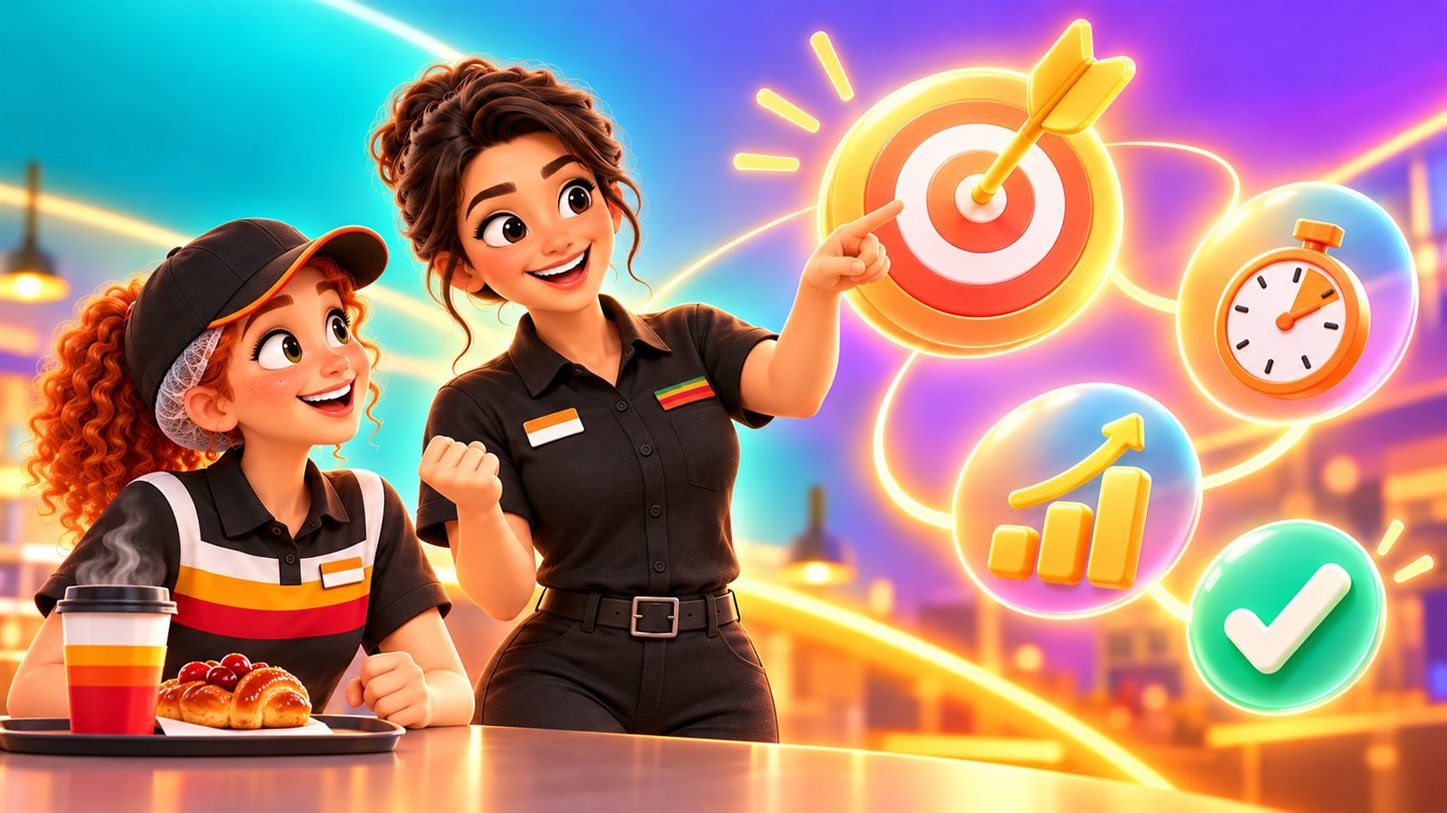
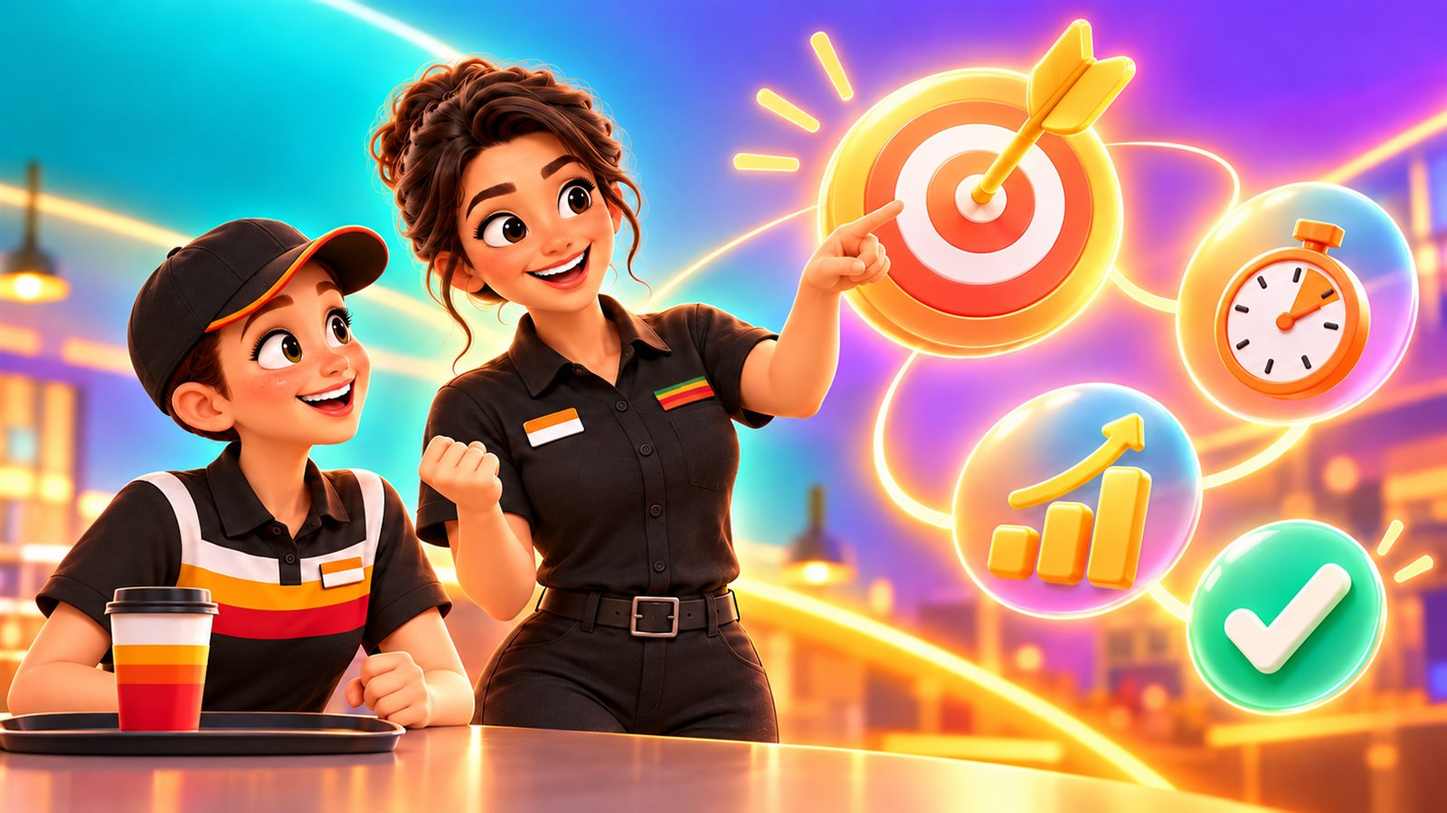
Refine course visuals and add reason carousel

diff --git a/index.html b/index.html
@@ -1,4 +1,4 @@
-<!doctype html>
+<!doctype html>
 <html lang="ru" data-audience="ms" data-direction="restoran" data-ku-course="daily_goals_course_progress_v12">
 <head>
   <meta charset="utf-8">
@@ -7,7 +7,7 @@
   <meta name="description" content="Интерактивный курс о постановке целей и управлении их достижением в течение дня.">
   <title>Как управлять достижением целей на день</title>
   <link rel="stylesheet" href="css/kuds.css?v=5">
-  <link rel="stylesheet" href="style.css?v=43">
+  <link rel="stylesheet" href="style.css?v=44">
 </head>
 <body>
   <nav id="top-nav" aria-label="Навигация по курсу">
@@ -29,8 +29,8 @@
           <p>От общей цели ресторана — к понятным действиям каждого сотрудника.</p>
           <button class="hero-entry ku-btn primary l" type="button" onclick="navigateTo('intro')"><span>Начать</span><i class="ku-ico arrow" aria-hidden="true">→</i></button>
         </div>
-        <figure class="ku-img course-hero-art" data-ku-img="images/hero-shift-leader" data-ku-alt="Менеджер ресторана начинает смену вместе с командой" style="aspect-ratio:4/5">
-          <figcaption class="ku-img__ph"><b>3D-сцена: менеджер начинает смену вместе с командой</b><code>images/hero-shift-leader · 4:5</code></figcaption>
+        <figure class="ku-img course-hero-art" data-ku-img="images/hero-shift-leader" data-ku-alt="Менеджер ресторана начинает смену вместе с командой" style="aspect-ratio:16/9">
+          <figcaption class="ku-img__ph"><b>3D-сцена: менеджер начинает смену вместе с командой</b><code>images/hero-shift-leader · 16:9</code></figcaption>
         </figure>
       </div>
 
@@ -224,9 +224,6 @@
         </div>
       </header>
       <div class="content-wrap lesson-body">
-        <figure class="ku-img fade-in course-scene" data-ku-img="images/smart-goal-coaching" data-ku-alt="Менеджер формулирует сотруднику прилавка конкретную цель по SMART" style="aspect-ratio:16/9">
-          <figcaption class="ku-img__ph"><b>3D-сцена: менеджер ставит сотруднику понятную SMART-цель</b><code>images/smart-goal-coaching · 16:9</code></figcaption>
-        </figure>
         <div class="section-title fade-in"><h2>Как конкретизировать цель на смену</h2></div>
         <div class="smart-intro fade-in"><p>Цели для команды и каждого сотрудника нужно ставить по принципу SMART. Нажми на букву, чтобы увидеть, что именно она проверяет.</p></div>
         <div class="smart-grid fade-in">
@@ -239,12 +236,13 @@
         <div class="smart-detail fade-in" id="smart-detail" aria-live="polite">
           <span>Выбери букву SMART</span><p>Нажми на любую карточку выше — здесь появится объяснение и пример.</p>
         </div>
-        <div class="smart-breakdown fade-in" id="smart-breakdown">
-          <p class="eyebrow">Собери воедино SMART-цель для кассира</p>
-          <p class="smart-annotated-goal">«<span class="smart-mark" data-smart="T">С 9:00 до 11:00</span> продай <span class="smart-mark" data-smart="M">15</span> <span class="smart-mark" data-smart="S">пирожков с вишней</span> — <span class="smart-mark" data-smart="A">на 5 больше твоего обычного результата</span>. Предлагай их как дополнительную продажу к горячему напитку: это поможет <span class="smart-mark" data-smart="R">увеличить средний чек ресторана</span>».</p>
-          <div class="smart-annotated-legend"><span><b>S</b>что продаём</span><span><b>M</b>сколько</span><span><b>A</b>почему достижимо</span><span><b>R</b>зачем ресторану</span><span><b>T</b>к какому времени</span></div>
+        <div class="smart-breakdown fade-in" id="smart-breakdown" hidden>
+          <p class="smart-complete-goal">«С 9:00 до 11:00 продай 15 пирожков с вишней — на 5 больше твоего обычного результата. Предлагай их как дополнительную продажу к горячему напитку: это поможет увеличить средний чек ресторана».</p>
         </div>
 
+        <figure class="ku-img fade-in course-scene" data-ku-img="images/smart-goal-coaching" data-ku-alt="Менеджер формулирует сотруднику прилавка конкретную цель по SMART" style="aspect-ratio:16/9">
+          <figcaption class="ku-img__ph"><b>3D-сцена: менеджер ставит сотруднику понятную SMART-цель</b><code>images/smart-goal-coaching · 16:9</code></figcaption>
+        </figure>
         <div class="quiz-card fade-in">
           <div class="quiz-top"><span>Практика</span><b>02</b></div>
           <h2>Соотнеси части цели с критериями SMART</h2>
@@ -335,11 +333,14 @@
 
         <div class="section-title fade-in"><h2>Что делать, если цели не достигаются?</h2></div>
         <div class="body-copy fade-in"><p>Если через 1–2 часа видно отставание, разберись в причинах.</p></div>
-        <div class="reason-grid fade-in">
-          <article class="reason-card"><button type="button" onclick="toggleReason(this)"><span class="reason-icon">?</span><span><b>Сотрудник не понимает задачу.</b><small>Нажми, чтобы увидеть решение</small></span><i>＋</i></button><div class="reason-body"><p><strong>Признак:</strong> пересказывает цель неверно.</p><p><strong>Решение:</strong> объясни цель ещё раз и попроси повторить.</p></div></article>
-          <article class="reason-card"><button type="button" onclick="toggleReason(this)"><span class="reason-icon">↗</span><span><b>Сотрудник понимает, но не получается выполнить.</b><small>Нажми, чтобы увидеть решение</small></span><i>＋</i></button><div class="reason-body"><p>Спроси, <strong>в чём сложность.</strong> Возможно, нужен другой инструмент (например, использовать треугольник продаж, а не один скрипт).</p><p><strong>Решение:</strong> предложи новый план, убери помехи (соус стоит далеко, скрипт сложный и т.п.).</p></div></article>
-          <article class="reason-card"><button type="button" onclick="toggleReason(this)"><span class="reason-icon">◷</span><span><b>Сотрудник устал.</b><small>Нажми, чтобы увидеть решение</small></span><i>＋</i></button><div class="reason-body"><p>Спроси, <strong>как он себя чувствует.</strong></p><p><strong>Решение:</strong> дай отдохнуть до пика, скорректируй распределение задач.</p></div></article>
-          <article class="reason-card"><button type="button" onclick="toggleReason(this)"><span class="reason-icon">☹</span><span><b>Сотрудник недружелюбен с Гостями.</b><small>Нажми, чтобы увидеть решение</small></span><i>＋</i></button><div class="reason-body"><p><strong>Спроси:</strong> что мешает ему быть внимательным к Гостям и предлагать блюда.</p><p><strong>Решение:</strong> дай корректирующую обратную связь наедине, покажи, как правильно общаться и предлагать.</p></div></article>
+        <div class="reason-carousel fade-in" id="reason-carousel" aria-label="Причины отклонения от цели">
+          <div class="reason-slides">
+            <article class="reason-slide active"><img src="images/reason-not-understood.jpg" alt="Менеджер помогает сотруднику понять задачу"><div class="reason-slide-copy"><span class="reason-kicker">Причина 1</span><h3>Сотрудник не понимает задачу.</h3><p><strong>Признак:</strong> пересказывает цель неверно.</p><p><strong>Решение:</strong> объясни цель ещё раз и попроси повторить.</p></div></article>
+            <article class="reason-slide"><img src="images/reason-cannot-achieve.jpg" alt="Менеджер помогает сотруднику убрать препятствие"><div class="reason-slide-copy"><span class="reason-kicker">Причина 2</span><h3>Сотрудник понимает, но не получается выполнить.</h3><p>Спроси, <strong>в чём сложность.</strong> Возможно, нужен другой инструмент (например, использовать треугольник продаж, а не один скрипт).</p><p><strong>Решение:</strong> предложи новый план, убери помехи (соус стоит далеко, скрипт сложный и т.п.).</p></div></article>
+            <article class="reason-slide"><img src="images/reason-tired.jpg" alt="Менеджер предлагает уставшему сотруднику короткий отдых"><div class="reason-slide-copy"><span class="reason-kicker">Причина 3</span><h3>Сотрудник устал.</h3><p>Спроси, <strong>как он себя чувствует.</strong></p><p><strong>Решение:</strong> дай отдохнуть до пика, скорректируй распределение задач.</p></div></article>
+            <article class="reason-slide"><img src="images/reason-unfriendly.jpg" alt="Менеджер помогает сотруднику улучшить общение с Гостем"><div class="reason-slide-copy"><span class="reason-kicker">Причина 4</span><h3>Сотрудник недружелюбен с Гостями.</h3><p><strong>Спроси:</strong> что мешает ему быть внимательным к Гостям и предлагать блюда.</p><p><strong>Решение:</strong> дай корректирующую обратную связь наедине, покажи, как правильно общаться и предлагать.</p></div></article>
+          </div>
+          <div class="reason-carousel-nav"><button type="button" onclick="changeReasonSlide(-1)" aria-label="Предыдущая причина">←</button><span id="reason-carousel-count">1 / 4</span><button type="button" onclick="changeReasonSlide(1)" aria-label="Следующая причина">→</button></div>
         </div>
 
         <div class="quiz-card fade-in">
@@ -393,9 +394,6 @@
           <div class="reflection-feedback" id="reflection-feedback" aria-live="polite"></div>
         </div>
 
-        <figure class="ku-img fade-in course-scene" data-ku-img="images/finish-team-feedback" data-ku-alt="Менеджер подводит итоги смены и благодарит команду ресторана" style="aspect-ratio:16/9">
-          <figcaption class="ku-img__ph"><b>3D-сцена: команда подводит итоги смены</b><code>images/finish-team-feedback · 16:9</code></figcaption>
-        </figure>
         <div class="section-title fade-in"><h2>Что делать в конце смены</h2></div>
         <div class="body-copy fade-in"><p>Проверь итоги.</p><p>Если каждый сотрудник достиг своей цели, значит, и общая цель выполнена.</p></div>
         <div class="finish-paths fade-in">
@@ -408,6 +406,9 @@
           <div><span>03</span><p>Дай обратную связь каждому.</p></div>
           <div><span>04</span><p>Публично похвали тех, кто справился. Это мотивирует и их, и остальных.</p></div>
         </div>
+        <figure class="ku-img fade-in course-scene" data-ku-img="images/finish-team-feedback" data-ku-alt="Менеджер подводит итоги смены и благодарит команду ресторана" style="aspect-ratio:16/9">
+          <figcaption class="ku-img__ph"><b>3D-сцена: команда подводит итоги смены</b><code>images/finish-team-feedback · 16:9</code></figcaption>
+        </figure>
         <div class="next-row"><button class="btn-primary" type="button" onclick="completeChapter('finish', 'summary')">Собрать главное <span>→</span></button></div>
       </div>
     </section>
@@ -447,7 +448,7 @@
   <button class="course-back btn-secondary" id="course-back" type="button" onclick="goToPreviousPage()" hidden><span aria-hidden="true">←</span> Назад</button>
 
   <script src="js/ku-scorm.js"></script>
-  <script src="script.js?v=50"></script>
+  <script src="script.js?v=51"></script>
 </body>
 </html>
 

diff --git a/style.css b/style.css
@@ -941,3 +941,116 @@ button:focus-visible, input:focus-visible, textarea:focus-visible { outline-colo
 .chapter-card { min-height: 4rem; padding: 0.75rem 1rem; align-items: center; }
 .chapter-copy { padding-inline-end: 1.5rem; }
 .chapter-lock { inset-block-end: auto; inset-block-start: 50%; transform: translateY(-50%); }
+
+/* Full-screen cover */
+.hero-placeholder {
+  min-height: calc(100svh - 3.6rem);
+  overflow: hidden;
+  background: var(--ku-brand-soft);
+}
+.hero-placeholder::after { display: none; }
+.hero-placeholder::before {
+  inset: 0;
+  z-index: -1;
+  border-radius: 0;
+  background: linear-gradient(90deg, color-mix(in srgb, var(--ku-bg) 88%, transparent) 0%, color-mix(in srgb, var(--ku-bg) 58%, transparent) 34%, transparent 62%);
+}
+.course-hero-art,
+.course-hero-art.is-loaded {
+  position: absolute;
+  inset: 0;
+  z-index: -2;
+  inline-size: 100%;
+  block-size: 100%;
+  margin: 0;
+  border: 0;
+  border-radius: 0;
+  background: var(--ku-brand-soft);
+  box-shadow: none;
+  transform: none;
+}
+.course-hero-art > img {
+  inline-size: 100%;
+  block-size: 100%;
+  object-fit: contain;
+  object-position: center;
+}
+.course-hero-art.is-loaded .ku-img__ph { display: none; }
+
+/* Compact chapter route */
+#course-contents .chapter-grid {
+  grid-template-columns: repeat(4, minmax(0, 1fr));
+  gap: var(--ku-space-xs);
+}
+#course-contents .chapter-grid::before { display: none; }
+#course-contents .chapter-card,
+#course-contents .chapter-card.wide,
+#course-contents .chapter-card:nth-child(n) {
+  grid-column: auto;
+  min-height: 0;
+  height: auto;
+  padding: 0.7rem 0.9rem;
+  border-radius: var(--ku-radius-pill);
+  display: grid;
+  grid-template-columns: auto minmax(0, 1fr) auto;
+  gap: 0.6rem;
+  align-items: center;
+}
+#course-contents .chapter-card::before,
+#course-contents .chapter-card::after { display: none; }
+#course-contents .chapter-num { position: static; font-size: 0.75rem; }
+#course-contents .chapter-copy { padding: 0; }
+#course-contents .chapter-copy b { font-size: 0.95rem; line-height: 1.15; }
+#course-contents .chapter-copy small { display: none; }
+#course-contents .chapter-arrow,
+#course-contents .chapter-lock { position: static; transform: none; }
+#course-contents .chapter-card.locked .chapter-arrow::before { content: "🔒"; font-size: 0.9rem; }
+#course-contents .chapter-card.locked .chapter-lock { display: none; }
+
+.smart-breakdown[hidden] { display: none !important; }
+.smart-complete-goal {
+  margin: 0;
+  padding: var(--ku-space-m);
+  border-radius: var(--ku-radius-l);
+  background: var(--ku-success-soft);
+  font-size: var(--ku-text-l);
+  font-weight: 700;
+  line-height: 1.45;
+}
+
+/* Reasons carousel */
+.reason-carousel {
+  overflow: hidden;
+  border: 1px solid var(--ku-border);
+  border-radius: var(--ku-radius-xl);
+  background: var(--ku-surface);
+  box-shadow: var(--ku-shadow-m);
+}
+.reason-slide { display: none; grid-template-columns: minmax(0, 1.08fr) minmax(16rem, 0.92fr); min-height: 25rem; }
+.reason-slide.active { display: grid; }
+.reason-slide img { inline-size: 100%; block-size: 100%; min-height: 25rem; object-fit: cover; }
+.reason-slide-copy { display: grid; align-content: center; gap: var(--ku-space-s); padding: clamp(1.25rem, 3vw, 2.5rem); }
+.reason-slide-copy h3,
+.reason-slide-copy p { margin: 0; }
+.reason-carousel-nav { display: flex; justify-content: center; align-items: center; gap: var(--ku-space-m); padding: var(--ku-space-s); border-top: 1px solid var(--ku-border); }
+.reason-carousel-nav button { min-inline-size: 3rem; min-block-size: 3rem; border: 1px solid var(--ku-brand); border-radius: var(--ku-radius-pill); background: var(--ku-surface); color: var(--ku-brand); font: inherit; font-size: 1.4rem; cursor: pointer; }
+.reason-carousel-nav button:hover { background: var(--ku-brand-soft); }
+#reason-carousel-count { min-inline-size: 3.5rem; text-align: center; font-weight: 800; }
+
+@media (max-width: 900px) {
+  #course-contents .chapter-grid { grid-template-columns: repeat(2, minmax(0, 1fr)); }
+}
+@media (max-width: 760px) {
+  .hero-placeholder { min-height: calc(100svh - 3.6rem); }
+  .course-hero-art,
+  .course-hero-art.is-loaded { position: absolute; inset: 0; inline-size: 100%; block-size: 100%; margin: 0; }
+  .course-hero-art > img { object-fit: cover; object-position: 66% center; }
+  .hero-placeholder::before { background: linear-gradient(180deg, color-mix(in srgb, var(--ku-bg) 90%, transparent) 0%, color-mix(in srgb, var(--ku-bg) 64%, transparent) 48%, transparent 78%); }
+  .reason-slide.active { grid-template-columns: 1fr; }
+  .reason-slide,
+  .reason-slide img { min-height: 0; }
+  .reason-slide img { aspect-ratio: 16 / 10; }
+}
+@media (max-width: 520px) {
+  #course-contents .chapter-grid { grid-template-columns: 1fr; }
+}

diff --git a/script.js b/script.js
@@ -311,6 +311,19 @@ function selectSmart(button, index) {
   button.classList.remove('required-attention');
   const [title, text] = SMART_DETAILS[index];
   document.getElementById('smart-detail').innerHTML = `<span>${title}</span><p>${text}</p>`;
+  const completeGoal = document.getElementById('smart-breakdown');
+  if (completeGoal) completeGoal.hidden = index !== 4;
+}
+
+let reasonSlideIndex = 0;
+
+function changeReasonSlide(delta) {
+  const slides = [...document.querySelectorAll('#reason-carousel .reason-slide')];
+  if (!slides.length) return;
+  reasonSlideIndex = (reasonSlideIndex + delta + slides.length) % slides.length;
+  slides.forEach((slide, index) => slide.classList.toggle('active', index === reasonSlideIndex));
+  const counter = document.getElementById('reason-carousel-count');
+  if (counter) counter.textContent = `${reasonSlideIndex + 1} / ${slides.length}`;
 }
 
 function shuffleInPlace(items) {

diff --git a/IMAGES-TASK.md b/IMAGES-TASK.md
@@ -1,15 +1,15 @@
-# Задание на 3D-изображения
+# Задание на 3D-изображения
 
 - **Курс:** Как управлять достижением целей на день
 - **Стиль:** `3d` — высококачественная стилизованная семейная 3D-анимация
 - **Файл стиля:** `ku-design-system/photo-refs/burger_king_style_3d_animation.ru.json`
-- **Статус:** 6 из 6 изображений готовы
+- **Статус:** 10 из 10 изображений готовы
 
 ## Общие требования
 
-Все шесть кадров должны выглядеть как один визуальный сериал. Повторяющийся герой — менеджер Мадина: взрослая женщина 28–35 лет, овальное дружелюбное лицо, карие глаза, тёмные волосы собраны сзади, средний рост и телосложение. AUP: чёрная форменная рубашка с коротким рукавом, полноценным воротником и полной планкой пуговиц; на левом нагрудном кармане маленькая отдельная текстильная нашивка из коротких зелёной, красной, оранжевой и светло-коричневой полос; чёрные брюки, ремень, закрытая обувь, один бейдж. Без поло, галстука и широкой цветной кокетки.
+Все десять кадров должны выглядеть как один визуальный сериал. Повторяющийся герой — менеджер Мадина: взрослая женщина 28–35 лет, овальное дружелюбное лицо, карие глаза, тёмные волосы собраны сзади, средний рост и телосложение. AUP: чёрная форменная рубашка с коротким рукавом, полноценным воротником и полной планкой пуговиц; на левом нагрудном кармане маленькая отдельная текстильная нашивка из коротких зелёной, красной, оранжевой и светло-коричневой полос; чёрные брюки, ремень, закрытая обувь, один бейдж. Без поло, галстука и широкой цветной кокетки.
 
-CHBR: взрослый сотрудник в стандартном чёрном поло с белой плечевой кокеткой, под ней широкой ярко-оранжевой и широкой красной полосами; чёрные брюки и закрытая обувь, один бейдж. На кухне — чёрная полупрозрачная мелкоячеистая сетка без кепки и длинный чёрный фартук с крупным пламенем. В остальных зонах — сетка под чёрной бейсболкой, без фартука.
+CHBR: взрослый сотрудник в стандартном чёрном поло с белой плечевой кокеткой, под ней широкой ярко-оранжевой и широкой красной полосами; чёрные брюки и закрытая обувь, один бейдж. Все сотрудники во всех зонах носят чёрные бейсболки, волосы аккуратно собраны под кепкой. На кухне сотрудник дополнительно носит длинный чёрный фартук с крупным пламенем.
 
 Итоговое визуальное направление: яркие рекламные 3D-композиции с насыщенными градиентами, светящимися объёмными символами и минимальным фоном ресторана.`r`n`r`nОбщий стиль каждого промта: высококачественная кинематографическая 3D-стилизация для семейной анимации; дружелюбные округлые формы, выразительные крупные глаза, мягкая матовая кожа, чистые силуэты, стилизованные PBR-материалы, мягкая глобальная иллюминация, детализированная, но не фотореалистичная среда Burger King. Не добавлять читаемый текст, цифры и интерфейсы: они остаются в HTML курса.
 
@@ -20,7 +20,7 @@ CHBR: взрослый сотрудник в стандартном чёрном
 ### hero-shift-leader
 
 - **Файл:** `images/hero-shift-leader.jpg`
-- **Формат:** 4:5, до 1600 px, до 400 КБ
+- **Формат:** 16:9, до 1600 px, до 400 КБ
 - **Назначение:** обложка курса
 - **Промт:**
 
@@ -67,10 +67,10 @@ CHBR: взрослый сотрудник в стандартном чёрном
 - **Промт:**
 
 ```text
-У прилавка Мадина спокойно объясняет конкретную задачу одному сотруднику CHBR. Между ними небольшой планшет или карточка с простыми цветными блоками без текста; Мадина указывает на один понятный ориентир, сотрудник внимательно смотрит и подтверждает понимание. Рядом видны горячий напиток и пирожок как аккуратные предметы для дополнительной продажи, без рекламных надписей. Поясной двухплановый кадр, руки и жесты хорошо читаются, лица доброжелательные и сосредоточенные, фон прилавка мягко отделён глубиной резкости.
+У прилавка Мадина спокойно объясняет конкретную задачу одному сотруднику CHBR. Между ними небольшой планшет или карточка с простыми цветными блоками без текста; Мадина указывает на один понятный ориентир, сотрудник внимательно смотрит и подтверждает понимание. На подносе стоит только один горячий кофе без надписей. Волосы сотрудника полностью и аккуратно убраны под чёрную кепку. Поясной двухплановый кадр, руки и жесты хорошо читаются, лица доброжелательные и сосредоточенные, фон прилавка мягко отделён глубиной резкости.
 ```
 
-- **Обязательно видно:** Мадина и один сотрудник; корректная форма прилавка; понятный жест объяснения; горячий напиток и пирожок; никаких букв SMART и другого текста.
+- **Обязательно видно:** Мадина и один сотрудник; корректная форма прилавка; понятный жест объяснения; на подносе только кофе; волосы полностью собраны под кепку; никаких букв SMART и другого текста.
 - **Статус:** [x]
 
 ### control-hourly-check
@@ -106,3 +106,12 @@ CHBR: взрослый сотрудник в стандартном чёрном
 После генерации положи изображения в папку `images/` под указанными именами, отметь пункты `[x]` и открой курс. Слоты подхватят `.jpg`, `.png` или `.jpeg` автоматически; HTML менять не нужно.
 
 
+
+## Дополнительные изображения для листалки
+
+Все сотрудники изображены в чёрных кепках, волосы аккуратно собраны.
+
+- `images/reason-not-understood.jpg` — сотрудник не понимает задачу. [x]
+- `images/reason-cannot-achieve.jpg` — сотрудник понимает цель, но сталкивается с препятствием. [x]
+- `images/reason-tired.jpg` — сотрудник устал, менеджер предлагает короткий отдых. [x]
+- `images/reason-unfriendly.jpg` — менеджер помогает улучшить общение с Гостем. [x]
